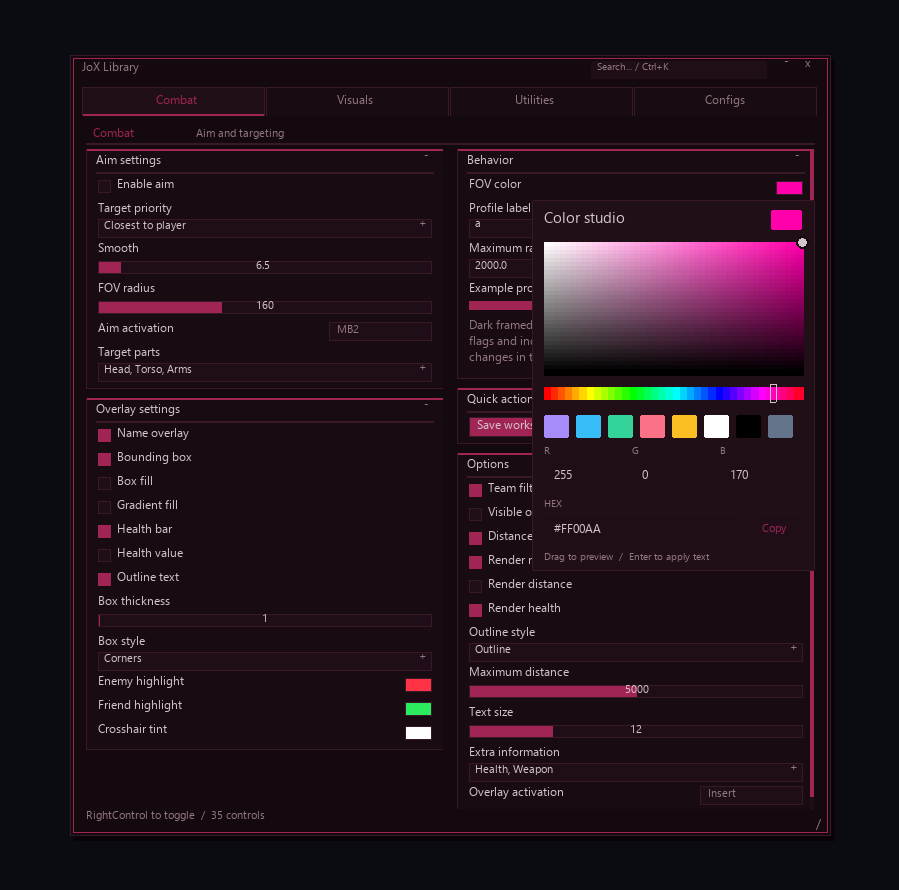
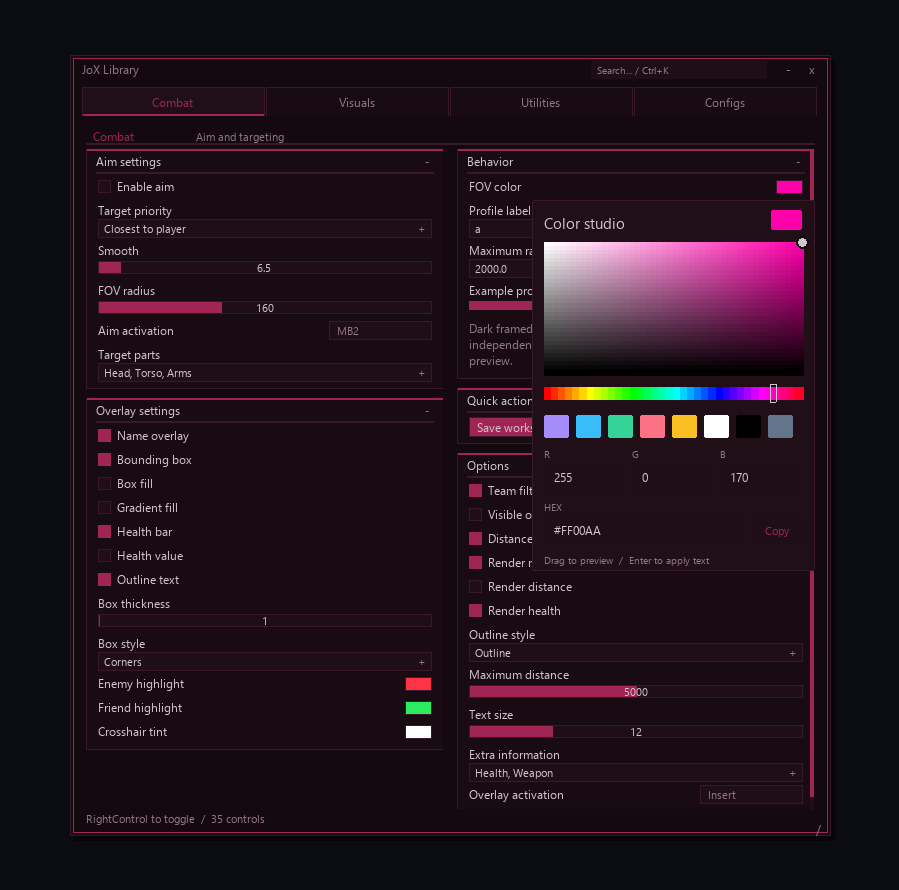
Align control text using native font line metrics

diff --git a/README.md b/README.md
@@ -147,3 +147,9 @@ Preview images below are rendered from captured Drawing commands, not screenshot
 Only the presentation and default palette change. The methods, callback payloads, flags, configuration namespace and loading URL stay compatible with 1.1.0. Existing scripts can use the new layout without changing their builders. Wine is the new default accent, and previously saved custom colors still restore normally.
 
 The reference layout uses horizontal tabs, compact checkbox rows, thin magenta separators and filled sliders with centered editable values. Sections keep their two independent scroll areas, and search and the HSV/RGB/HEX color picker remain available. Validation includes clicking the new checkbox/field positions, configuration roundtrip, color editing and the Fisch integration. Preview images are offline renders.
+
+## Version 1.1.2 text alignment
+
+Control captions, checkbox labels, slider values, dropdown values/arrows, buttons, keybinds, tabs and color editor fields share measured DirectWrite line-box alignment. Slider numbers are also centered horizontally using measured width rather than character-count estimates. Cached measurements are bounded to avoid retaining unlimited dynamic text.
+
+The offline preview respects font ascender/baseline bearings instead of treating visible glyph bounds as the layout origin. Regression checks compare the rendered text line centers to slider, dropdown and button rectangles using the native font measurement API. Public methods and saved configuration flags remain unchanged.
